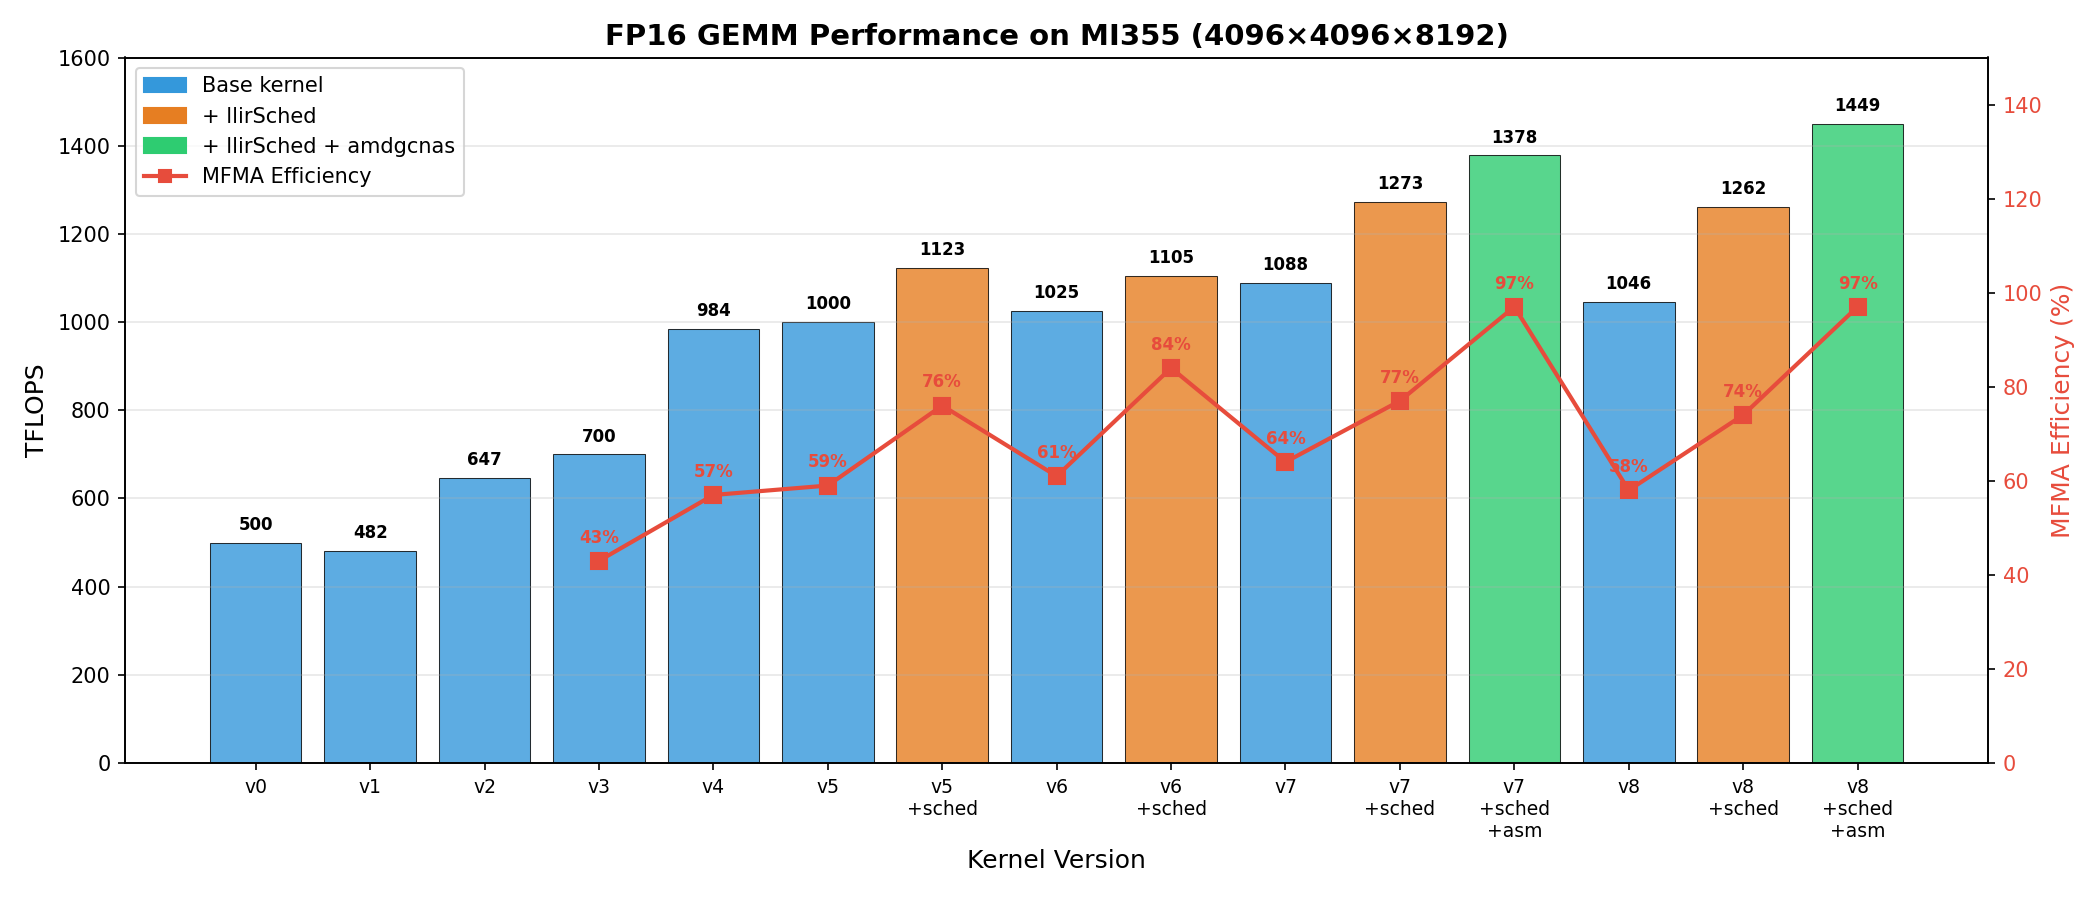
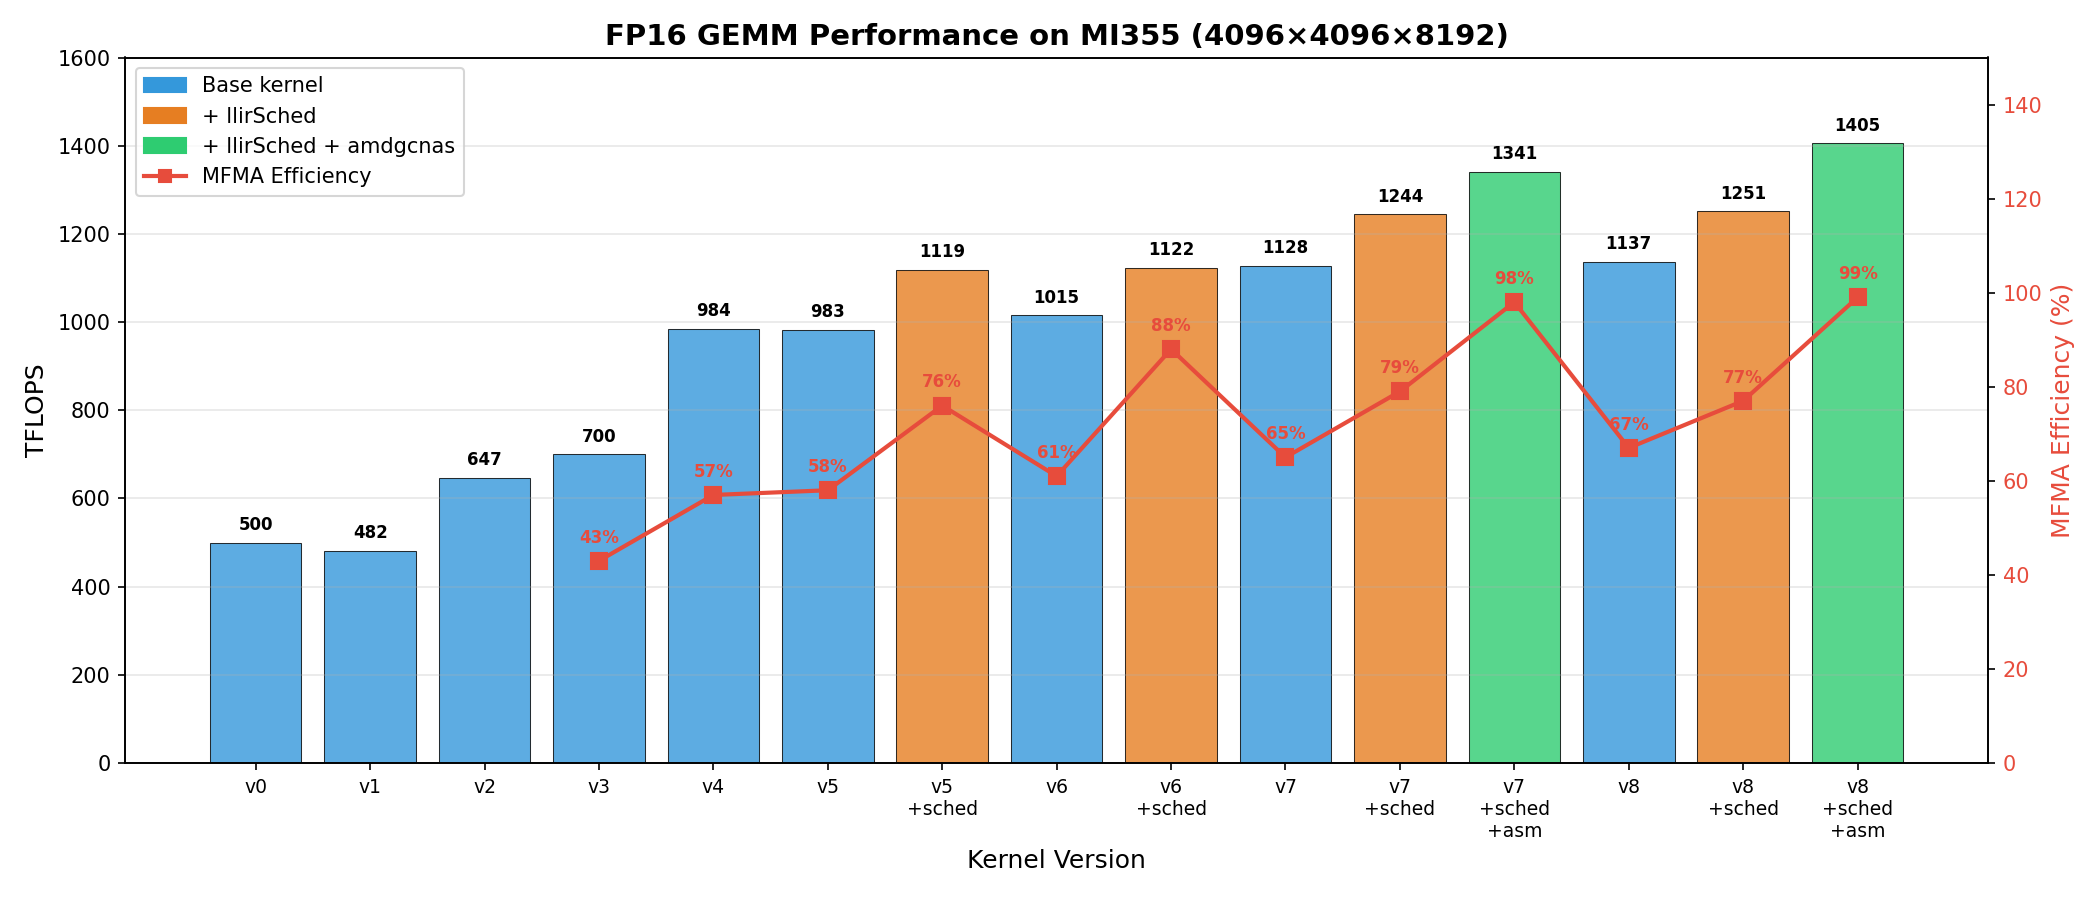
Update perf

diff --git a/kernels/gemm/a16w16/generate_perf_chart.py b/kernels/gemm/a16w16/generate_perf_chart.py
@@ -23,16 +23,16 @@ def main():
         ("v2", 647, "base", None),
         ("v3", 700, "base", 43),
         ("v4", 984, "base", 57),
-        ("v5", 1000, "base", 59),
-        ("v5", 1123, "llirSched", 76),
-        ("v6", 1025, "base", 61),
-        ("v6", 1105, "llirSched", 84),
-        ("v7", 1088, "base", 64),
-        ("v7", 1273, "llirSched", 77),
-        ("v7", 1378, "llirSched+amdgcnas", 97),
-        ("v8", 1046, "base", 58),
-        ("v8", 1262, "llirSched", 74),
-        ("v8", 1449, "llirSched+amdgcnas", 97),
+        ("v5", 983, "base", 58),
+        ("v5", 1119, "llirSched", 76),
+        ("v6", 1015, "base", 61),
+        ("v6", 1122, "llirSched", 88),
+        ("v7", 1128, "base", 65),
+        ("v7", 1244, "llirSched", 79),
+        ("v7", 1341, "llirSched+amdgcnas", 98),
+        ("v8", 1137, "base", 67),
+        ("v8", 1251, "llirSched", 77),
+        ("v8", 1405, "llirSched+amdgcnas", 99),
     ]
 
     # Create labels for x-axis

diff --git a/kernels/gemm/a16w16/README.md b/kernels/gemm/a16w16/README.md
@@ -95,16 +95,16 @@ Measured on MI355 with shape 4096×4096×8192, FP16:
 | v2      |    647 |   353 |         — |                            |
 | v3      |    700 |   420 |       43% |                            |
 | v4      |    984 |   446 |       57% |                            |
-| v5      |   1000 |   452 |       59% |                            |
-| v5      |   1123 |     — |       76% | + llirSched                |
-| v6      |   1025 |   444 |       61% |                            |
-| v6      |   1105 |     — |       84% | + llirSched                |
-| v7      |   1088 |   494 |       64% |                            |
-| v7      |   1273 |     — |       77% | + llirSched                |
-| v7      |   1378 |     — |       97% | + llirSched + amdgcnSched  |
-| v8      |   1046 |   512 |       58% |                            |
-| v8      |   1262 |     — |       74% | + llirSched                |
-| v8      |   1449 |     — |       97% | + llirSched + amdgcnSched  |
+| v5      |    983 |   452 |       58% |                            |
+| v5      |   1119 |     — |       76% | + llirSched                |
+| v6      |   1015 |   512 |       61% |                            |
+| v6      |   1122 |     — |       88% | + llirSched                |
+| v7      |   1128 |   496 |       65% |                            |
+| v7      |   1244 |     — |       79% | + llirSched                |
+| v7      |   1341 |     — |       98% | + llirSched + amdgcnSched  |
+| v8      |   1137 |   466 |       67% |                            |
+| v8      |   1251 |     — |       77% | + llirSched                |
+| v8      |   1405 |     — |       99% | + llirSched + amdgcnSched  |
 
 Performance is measured and explained using:
 
